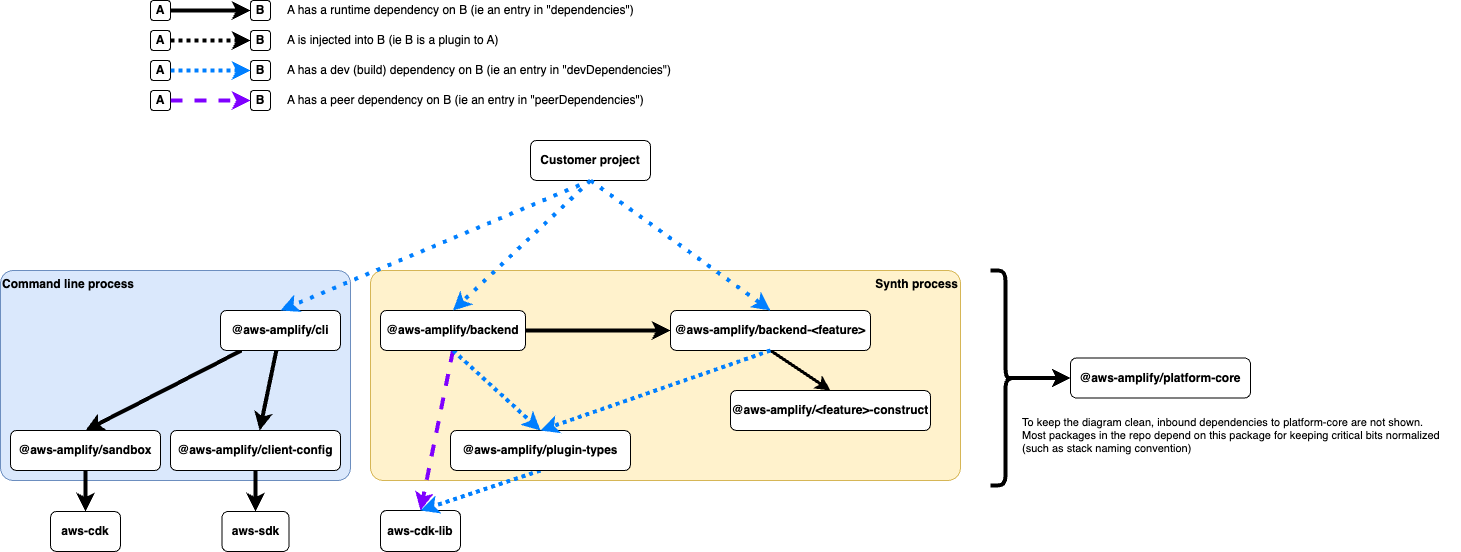
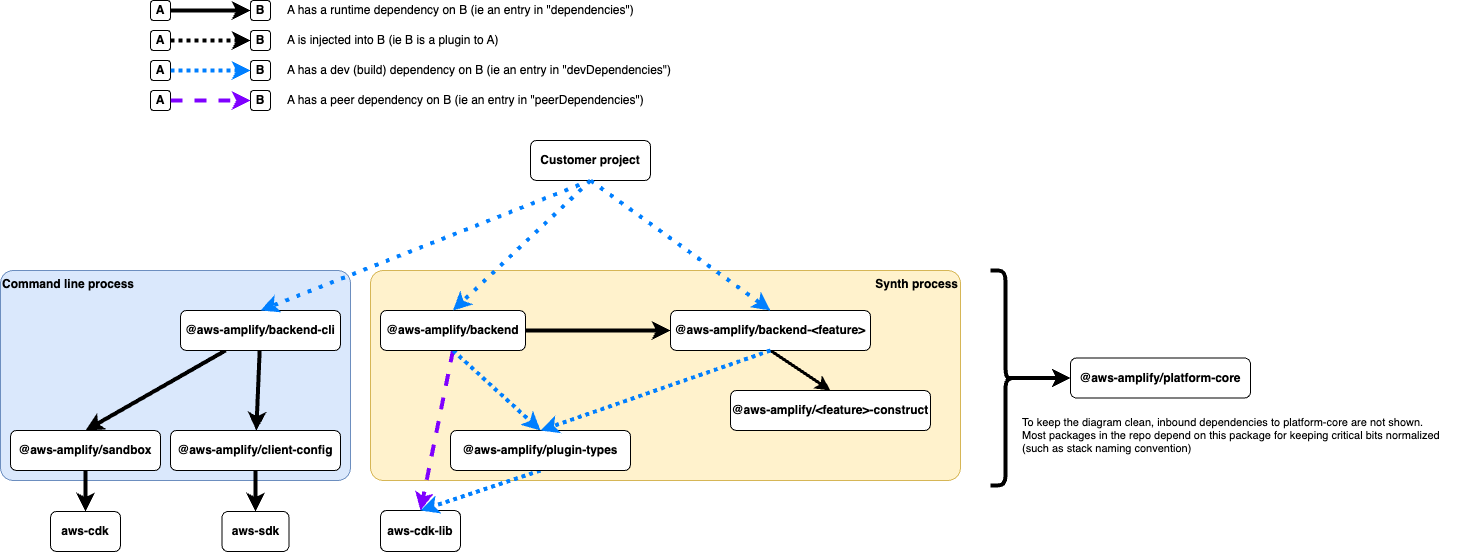
docs: replace package name cli to backend-cli

diff --git a/PROJECT_ARCHITECTURE.md b/PROJECT_ARCHITECTURE.md
@@ -63,7 +63,7 @@ The following diagram has a basic dependency graph of the package structure. Thi
 
 ![Simple dependency graph](markdown-assets/simple-dependency-graph.png)
 
-At the root, the customer project declares a dependency on `@aws-amplify/cli` and `@aws-amplify/backend`. The cli package depends on several packages for handling various subcommands.
+At the root, the customer project declares a dependency on `@aws-amplify/backend-cli` and `@aws-amplify/backend`. The backend-cli package depends on several packages for handling various subcommands.
 
 The backend package depends on several feature vertical packages (auth, data, storage, functions). The feature vertical packages implement interfaces defined in plugin-types which the backend package also depends on.
 
